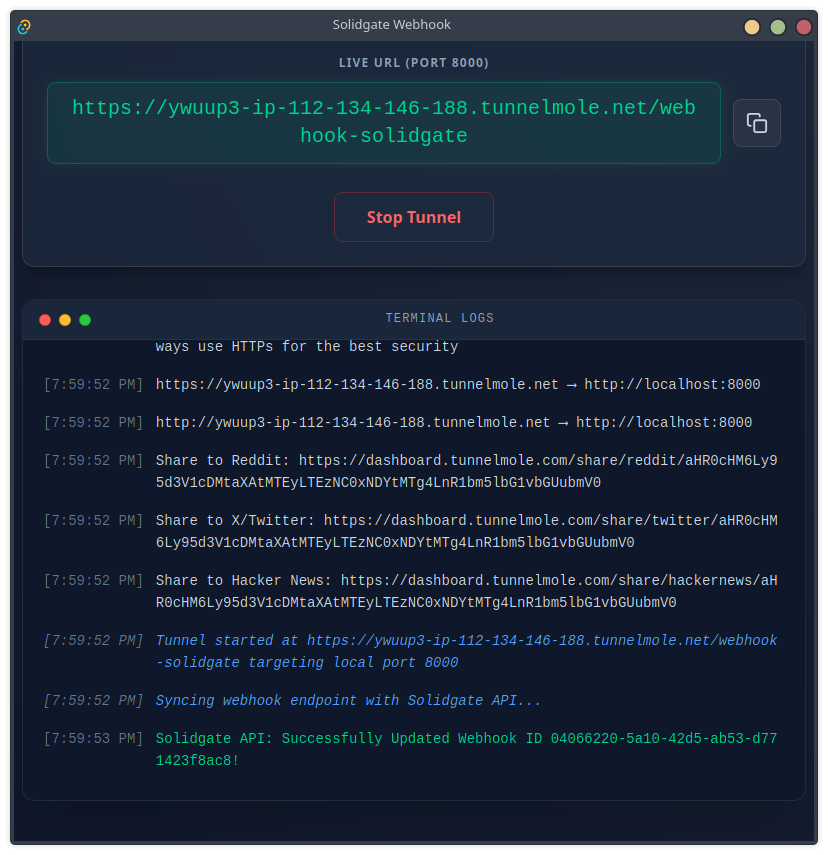
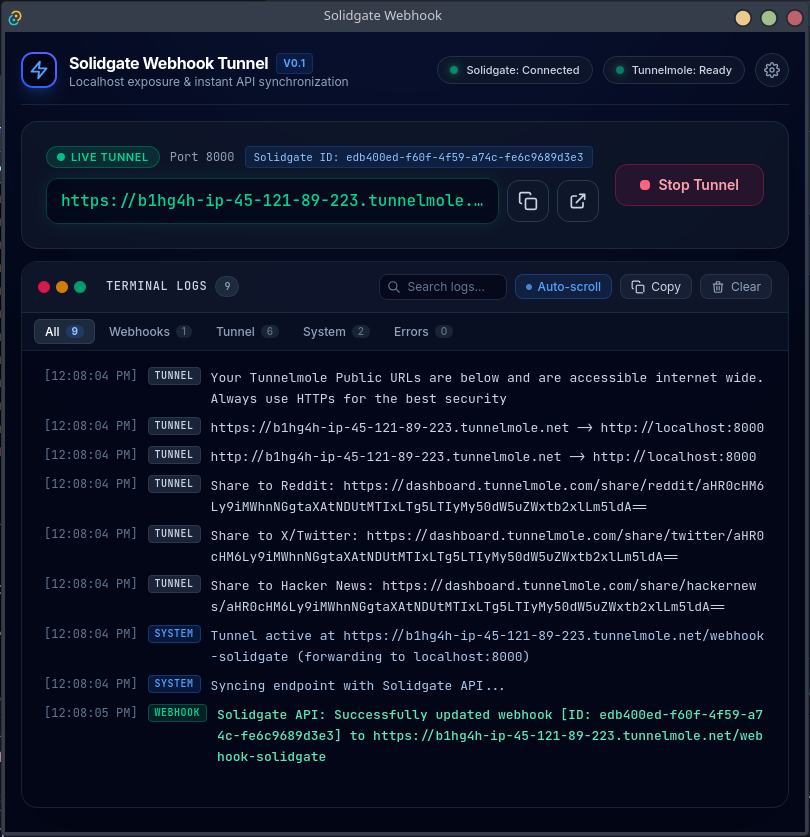
chore: bump version to 0.2.0, update README.md, and configure Rust build profiles

diff --git a/src/App.jsx b/src/App.jsx
@@ -355,7 +355,7 @@ function App() {
                 Solidgate Webhook Tunnel
               </h1>
               <span className="text-[10px] uppercase font-bold tracking-wider px-1.5 py-0.5 rounded bg-blue-500/10 text-blue-400 border border-blue-500/20">
-                v0.1
+                v0.2.0
               </span>
             </div>
             <p className="text-xs text-slate-400 mt-0.5 leading-none">

diff --git a/README.md b/README.md
@@ -4,30 +4,71 @@ A powerful, sleek Tauri desktop application designed to streamline testing and i
 
 <div align="center">
   <img src="./public/screenshot-2.png" width="60%" alt="Solidgate Webhook Tunnel"/>
-
-  <img src="./public/screenshot-1.png" width="60%" alt="Solidgate Webhook Tunnel"/>
+  <br/><br/>
+  <img src="./public/screenshot-1.png" width="60%" alt="Solidgate Webhook Tunnel Terminal"/>
 </div>
 
-## Features
+---
 
+## ⚡ Key Features
+
+### 🌐 Tunnel & Webhook Sync
 - **Instant Localhost Tunnels:** One-click generation of secure, public HTTPS URLs forwarding to any local port using `tmole`.
-- **Solidgate API Auto-Sync:** Automatically updates or creates Webhook Endpoints in your Solidgate Dashboard via API the moment a tunnel goes live.
-- **Secure Backend Cryptography:** Solidgate API signatures (HMAC-SHA512) are generated securely in the Rust backend, ensuring your Secret Keys never leak to the frontend or browser inspector.
-- **Built-in Dummy Webhook Server:** Ships with an embedded Rust `axum` server running on port `8000`. You can route your Solidgate webhooks to it for instant testing without needing your own local backend.
-- **Real-Time Terminal Logs:** View active Tunnelmole logs and incoming webhook hits streaming live in a beautiful, auto-scrolling macOS-style terminal UI.
-- **Premium Interface:** Built with React and TailwindCSS v4 featuring glassmorphism, responsive layouts, dark mode, and micro-animations.
+- **Dual Mode (Solidgate & Standalone):** Use it with Solidgate API credentials for automated webhook registration, or without credentials as a fast, clean standalone tunnel tool.
+- **Solidgate API Auto-Sync:** Automatically updates existing endpoints or registers new ones with your configured event types in Solidgate the moment the tunnel goes live.
+- **Automatic Lifecycle Cleanup:** Automatically deletes temporary endpoints from Solidgate (`DELETE /api/v1/webhooks/endpoints/{id}`) when the tunnel stops, keeping your merchant dashboard uncluttered.
+- **Smart Endpoint Auto-Detection:** Automatically detects and suggests existing `.tunnelmole.net` endpoints already registered in your Solidgate account.
+- **Embedded Dummy Webhook Server:** Includes an embedded Rust `axum` server running on port `8000` to catch and inspect incoming webhooks without requiring your own backend up front.
 
-## Prerequisites
+### 🛡 Security & Reliability
+- **Secure Backend Cryptography:** Solidgate API signatures (HMAC-SHA512) are computed exclusively inside the Rust backend, preventing your secret keys from ever being exposed to web views or logs.
+- **Real-Time Health Status Badges:** Visual indicators in the navbar showing live connectivity to the Solidgate API and presence of the `tmole` binary in your system `PATH`.
+- **Non-blocking Validation:** Safely saves API settings and reports connectivity status asynchronously without blocking the user interface.
 
-- **Bun** (for frontend dependencies)
-- **Rust / Cargo** (for the Tauri backend)
-- **Tunnelmole CLI:** Ensure the `tmole` command is installed and available in your system `PATH`.
+### 🚀 High-Performance React Terminal
+- **RAF Log Batching (`requestAnimationFrame`):** High-frequency log chunks from Tunnelmole and rapid webhook hits are collected into a ref queue and flushed once per frame, sustaining a smooth 60 FPS UI without freezing.
+- **Memory-Capped Circular Buffer:** Retains the latest 1,200 log entries to avoid browser memory leaks and DOM scrolling slowdowns during long test sessions.
+- **Component & Row Memoization (`React.memo`):** Memoized terminal lines and modal components ensure zero unnecessary re-renders.
+- **Smart Non-Blocking Auto-Scroll:** Detects manual scrolling and pauses auto-scrolling when you scroll up to inspect logs, showing a floating `↓ Jump to bottom` button.
+- **Search & Category Filters:** Instantly filter logs by text or switch categories: `All`, `Webhooks`, `Tunnel`, `System`, and `Errors` with live count badges.
+- **Quick Terminal Actions:** 1-click **Copy Visible Logs** and **Clear Terminal**.
+
+### 🎨 Developer Experience & UI/UX
+- **Modern Glassmorphic UI:** Built with React 19, TailwindCSS v4, Inter typography, and JetBrains Mono code fonts.
+- **Quick Port Selector:** One-click presets (`8000`, `3000`, `5000`, `8080`, `4242`) with `Enter` key shortcut to launch.
+- **Interactive Event Chips:** Clickable tag pills in Settings to toggle Solidgate webhook events without manual comma-separated typing.
+- **Secret Key Reveal:** Eye toggle to reveal or mask sensitive API keys.
+- **Non-Intrusive Toasts:** Floating toast alerts for clipboard actions, save confirmations, and error notices instead of modal browser dialogs.
+- **Browser Opener Integration:** Open active tunnel URLs in your default browser directly via `@tauri-apps/plugin-opener`.
+
+---
+
+## ⌨ Keyboard Shortcuts
+
+| Shortcut | Action |
+| --- | --- |
+| `Ctrl + ,` or `Cmd + ,` | Open / Toggle Settings Modal |
+| `Enter` (in Port input) | Start Tunnel |
+| `Ctrl + Enter` or `Cmd + Enter` | Save Settings (inside Settings Modal) |
+| `Escape` | Close Settings Modal |
+
+---
+
+## 📋 Prerequisites
+
+- **Bun** (recommended frontend package manager)
+- **Rust & Cargo** (for the Tauri desktop backend)
+- **Tunnelmole CLI:** Ensure the `tmole` command is installed and available in your system `PATH`:
 
   ```bash
   bun install -g tunnelmole
+  # Or via curl:
+  # curl -O https://tunnelmole.com/sh/install.sh && sudo bash install.sh
   ```
 
-## Getting Started
+---
+
+## 🛠 Getting Started
 
 ### 1. Install Dependencies
 
@@ -35,13 +76,13 @@ A powerful, sleek Tauri desktop application designed to streamline testing and i
 bun install
 ```
 
-### 2. Run the App in Development Mode
+### 2. Run in Development Mode
 
 ```bash
 bun run tauri dev
 ```
 
-This command starts the Vite development server and launches the Tauri desktop application.
+This launches the Vite local server and compiles the Tauri desktop app in debug mode with hot reloading.
 
 ### 3. Build for Production
 
@@ -49,22 +90,38 @@ This command starts the Vite development server and launches the Tauri desktop a
 bun run tauri build
 ```
 
-## How to Use Auto-Sync
+The compiled native executable and installer packages (deb/appimage/dmg/msi) will be generated in `src-tauri/target/release/bundle/`.
 
-1. Open the **Settings** (Gear Icon in the top right corner).
-2. Enter your **Solidgate Public Key** and **Solidgate Secret Key**.
-3. Click **Refresh List** to dynamically fetch your currently configured webhooks from the Solidgate API.
-4. Select an existing Webhook to update, or select `+ Create New Webhook` and configure your default event types.
-5. Return to the main screen, enter your local port (e.g. `8000`), and click **Start Tunnel & Sync**.
+---
 
-The app will generate the tunnel, append your configured URL suffix (e.g., `/webhook-solidgate`), and automatically `POST` or `PATCH` the endpoint in Solidgate.
+## 📖 How to Use
 
-## Tech Stack
+### Mode A: Solidgate Automated Sync
+1. Open **Settings** (Gear icon or `Cmd + ,`).
+2. Enter your **Solidgate Public Key** and **Secret Key**.
+3. Click **Refresh List** to fetch your active endpoints from Solidgate.
+4. Select `+ Create New Webhook` (auto-deleted upon tunnel stop) or choose an existing webhook endpoint to overwrite.
+5. Select or toggle your desired event types using the quick event chips.
+6. Click **Save Settings** (`Cmd + Enter`).
+7. Enter your local server port (e.g. `8000`) and click **Start Tunnel & Sync**.
 
-- **Frontend:** React, Vite, TailwindCSS v4
-- **Backend:** Rust, Tauri v2, Axum, Reqwest
-- **Cryptography:** `hmac`, `sha2`, `base64` (for Solidgate API Request Signatures)
+### Mode B: Standalone Tunnel
+1. Leave the API keys blank in Settings.
+2. Enter your desired local port on the home screen.
+3. Click **Start Tunnel & Sync** (runs pure Tunnelmole without API sync).
 
-## License
+---
+
+## 🏗 Architecture & Tech Stack
+
+- **Desktop Framework:** [Tauri v2](https://v2.tauri.app/)
+- **Frontend:** [React 19](https://react.dev/), [Vite](https://vite.dev/), [TailwindCSS v4](https://tailwindcss.com/)
+- **Plugins:** `@tauri-apps/plugin-opener` (native external browser launcher)
+- **Backend / CLI:** Rust, [Axum](https://github.com/tokio-rs/axum) (embedded webhook sink), [Reqwest](https://github.com/seanmonstar/reqwest) (Solidgate API client)
+- **Cryptography:** `hmac`, `sha2`, `base64` (HMAC-SHA512 Solidgate request signature generation)
+
+---
+
+## 📄 License
 
 This project is open source and available under the [MIT License](LICENSE).
